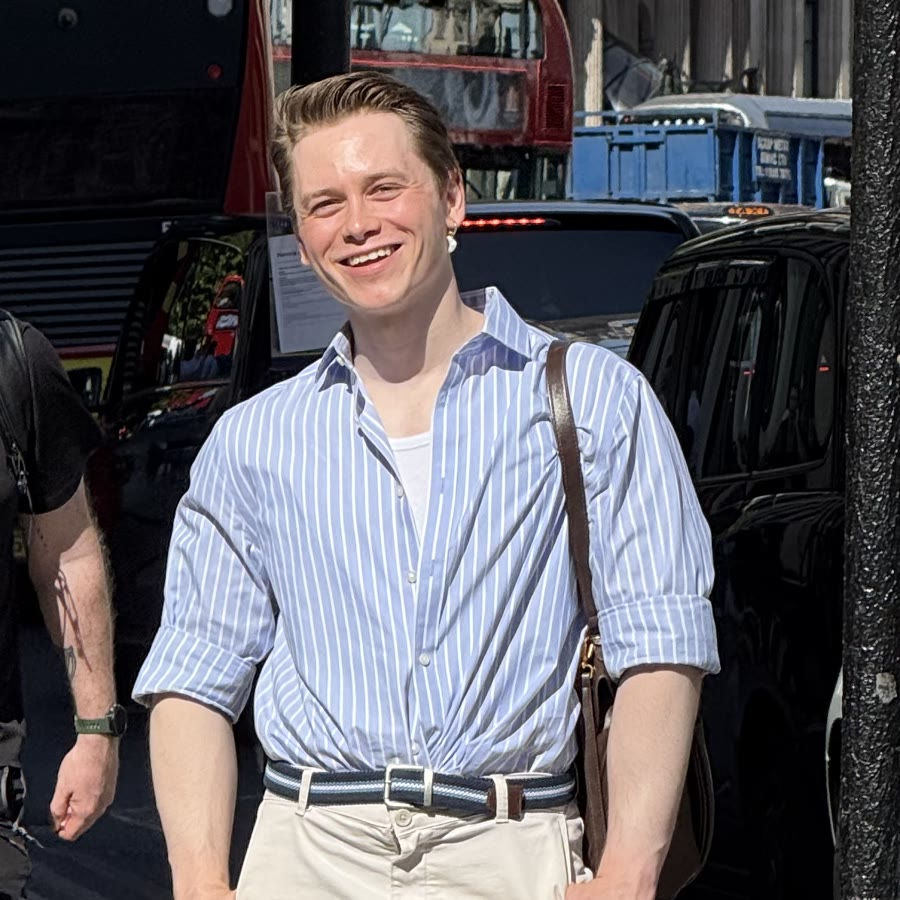
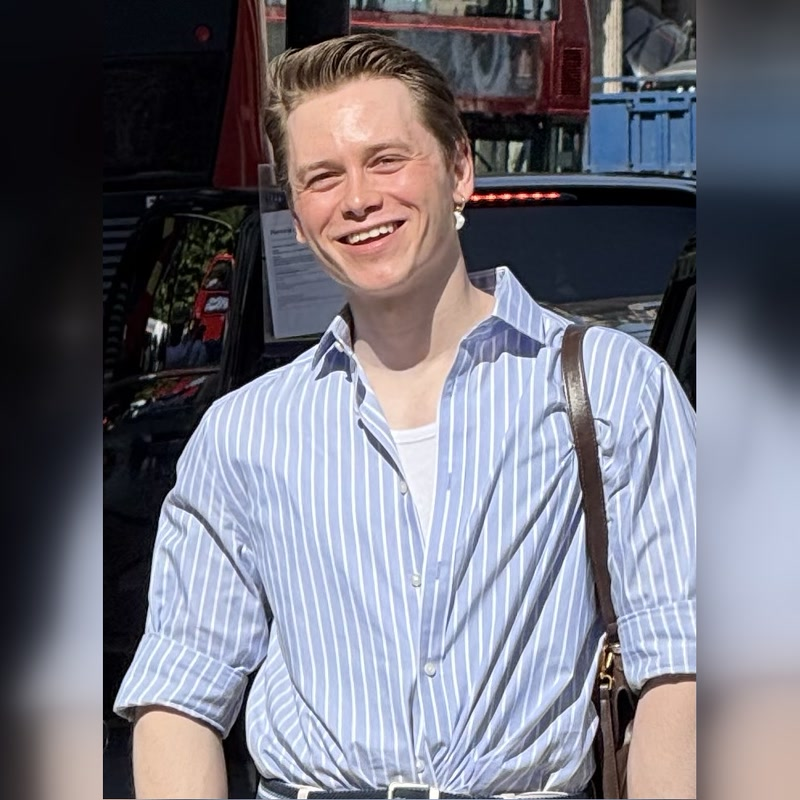
Booking preview: hero photo cropped to belt

diff --git a/preview-zapis/school/index.html b/preview-zapis/school/index.html
@@ -103,7 +103,7 @@
   <section id="top" style="position:relative;display:grid;grid-template-columns:repeat(auto-fit,minmax(330px,1fr));gap:36px;align-items:center;padding:54px 0 30px">
     <div class="hero-text" style="position:relative;z-index:2">
       <span style="display:inline-flex;align-items:center;gap:8px;background:#fff;color:#2440D9;font-weight:700;font-size:13px;letter-spacing:.04em;text-transform:uppercase;padding:8px 14px;border-radius:999px;box-shadow:0 4px 14px rgba(36,64,217,.12)">✦ Личные уроки · онлайн</span>
-      <img src="img/alex-hero.jpg?v=3" alt="" class="floaty hero-float" style="animation-duration:5s">
+      <img src="img/alex-hero.jpg?v=4" alt="" class="floaty hero-float" style="animation-duration:5s">
       <h1 class="h-nunito" style="font-weight:900;font-size:clamp(40px,5.4vw,72px);line-height:.98;letter-spacing:-1.5px;margin:18px 0 0">Заговори <span style="color:#2440D9">на английском</span><br>и перестань бояться ошибок</h1>
       <p style="max-width:460px;margin:20px 0 28px;font-size:18px;line-height:1.55;color:#5A5F7D">Индивидуальные уроки под твои цели: работа, поездки, учёба, общение. <span style="color:#FF7A1A;font-weight:700">Готовлю и к IELTS.</span></p>
       <a href="#calendar" class="hero-cta" style="display:inline-block;background:#FF7A1A;color:#fff;font-weight:700;font-size:16px;padding:16px 28px;border-radius:14px;text-decoration:none;box-shadow:0 8px 20px rgba(255,122,26,.32)">Выбрать время для вводного урока</a>
@@ -116,7 +116,7 @@
 
     <div class="hero-visual" style="position:relative;height:100%;min-height:460px;display:flex;align-items:center;justify-content:center">
       <div class="hero-glow" style="position:absolute;width:80%;aspect-ratio:1/1;border-radius:50%;background:radial-gradient(circle,rgba(47,80,230,.18),rgba(47,80,230,0) 66%)"></div>
-      <img src="img/alex-hero.jpg?v=3" alt="Алекс — преподаватель английского" class="floaty hero-mascot" style="position:relative;z-index:2;width:58%;max-width:330px;margin-top:64px;aspect-ratio:1/1;border-radius:50%;object-fit:cover;object-position:center;box-shadow:0 30px 60px -25px rgba(36,64,217,.45)">
+      <img src="img/alex-hero.jpg?v=4" alt="Алекс — преподаватель английского" class="floaty hero-mascot" style="position:relative;z-index:2;width:58%;max-width:330px;margin-top:64px;aspect-ratio:1/1;border-radius:50%;object-fit:cover;object-position:center;box-shadow:0 30px 60px -25px rgba(36,64,217,.45)">
       <img src="https://chill.education/img/deco-0.png" alt="" class="floaty hero-deco" style="position:absolute;top:8%;left:8%;width:62px;animation-duration:4.2s;animation-delay:.3s;z-index:3">
       <img src="https://chill.education/img/deco-5.png" alt="" class="floaty hero-deco" style="position:absolute;bottom:12%;left:2%;width:78px;animation-duration:5.4s;animation-delay:.6s;z-index:3">
       <img src="https://chill.education/img/deco-2.png" alt="" class="floaty hero-deco" style="position:absolute;top:18%;right:4%;width:40px;animation-duration:4.6s;animation-delay:.2s;z-index:3">
